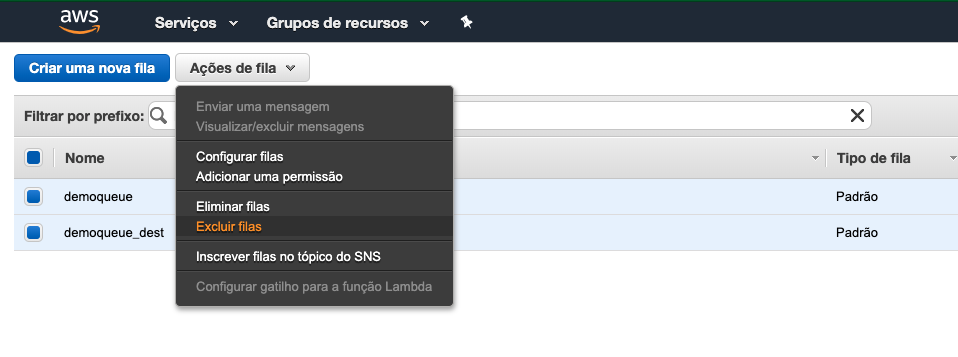
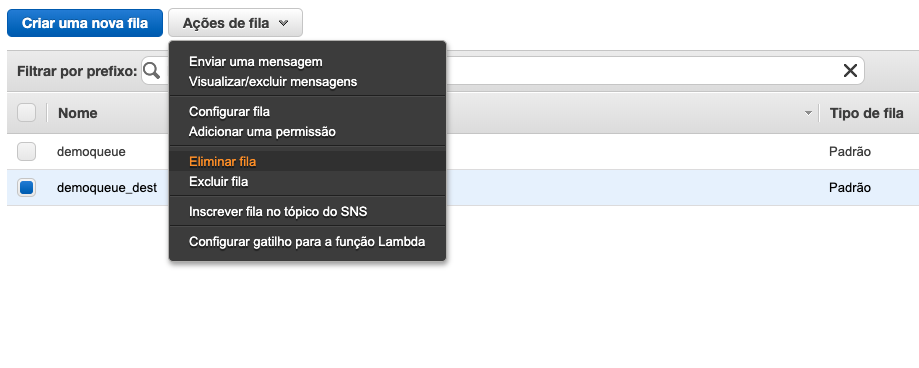
04 SQS 02 DLQ dev

diff --git a/04 - SQS/02 - DLQ/sqsHandler.py b/04 - SQS/02 - DLQ/sqsHandler.py
@@ -1,0 +1,42 @@
+import boto3
+
+class SqsHandler:
+    def __init__(self,queueUrl):
+        self.__sqs = boto3.client('sqs')
+        self.__queueUrl = queueUrl
+
+    def getMessage(self,qtdMsgs):
+        response = self.__sqs.receive_message(
+            QueueUrl=self.__queueUrl,
+            MaxNumberOfMessages=qtdMsgs
+        )
+        return response
+
+    def deleteMessage(self,receiptHandle):
+        response = self.__sqs.delete_message(
+            QueueUrl=self.__queueUrl,
+            ReceiptHandle=receiptHandle
+        )
+        return response
+    
+    def deleteBatch(self,lista):
+        response = self.__sqs.delete_message_batch(
+            QueueUrl=self.__queueUrl,
+            Entries=lista
+        )
+        print(response)
+
+    def sendBatch(self,lista):
+        response = self.__sqs.send_message_batch(
+            QueueUrl=self.__queueUrl,
+            Entries=lista
+        )
+        print(response)
+    
+    def send(self,msg):
+        response = self.__sqs.send_message(
+            QueueUrl=self.__queueUrl,
+            MessageBody=msg
+        )
+        print(response)
+    

diff --git a/04 - SQS/02 - DLQ/put.py b/04 - SQS/02 - DLQ/put.py
@@ -1,0 +1,12 @@
+from sqsHandler import SqsHandler
+
+mensagens = []
+for num in range(3000):
+    mensagens.append({'Id':str(num), 'MessageBody': str(num)})
+
+splitMsg = [mensagens[x:x+10] for x in range(0, len(mensagens), 10)]
+sqs = SqsHandler('<url da sua fila>')
+for lista in splitMsg:    
+    print(type(lista))
+    print(str(lista))
+    sqs.sendBatch(lista)

diff --git a/04 - SQS/02 - DLQ/README.md b/04 - SQS/02 - DLQ/README.md
@@ -1,15 +1,14 @@
 # Aula 04.2 - DLQ Queue
 
-1. Crie uma fila com o mesmo nome de uma fila já criada e coloque o sulfixo '_DLQ'
-2. Selecione a fila que já existia clique em 'Queue Actions' e depois em 'Configure Queue'
+1. No terminal do IDE criado no cloud9 execute o comando `cd ~/environment/aula-serverless-mob/04\ -\ SQS/02\ -\ DLQ/` para entrar na pasta que fara este exercicio.
+2. Na aba do SQS crie uma fila com o mesmo nome de uma fila já criada e coloque o sulfixo '_DLQ'
+3. Selecione a fila Demoqueue clique em 'Ações  fila' e depois em 'Configurar fila'
 ![img/dlq-01.png](img/dlq-01.png)
-3. Preencha as informações como na imagem, e clique me 'Save Changes'
+3. Preencha as informações como na imagem, e clique me 'Salvar alterações'
 ![img/dlq-02.png](img/dlq-02.png)
-4. Crie uma pasta chamada 'sqs' e entre nela
-5. Copie o arquivo 'sqsHandler.py', e o 'put.py' que esta na raiz do módulo para dentro da pasta 'sqs'
-6. Coloque a url da sua fila no lugar descrito no arquivo 'put.py'
-7. execute o comando `python3 put.py`
-8. Copie o arquivo 'consumer.py' que esta na raiz do módulo para dentro da pasta 'sqs' e faça as alterações como na imagem.
+1. Coloque a url da sua fila no lugar descrito no arquivo 'put.py'
+2. execute o comando `python3 put.py`
+3. Copie o arquivo 'consumer.py' que esta na raiz do módulo para dentro da pasta 'sqs' e faça as alterações como na imagem.
 ![img/dlq-03.png](img/dlq-03.png)
 9. execute o comando `python3 consumer.py`
 10. Observe que enquanto roda o script a fila DLQ é populada.

diff --git a/04 - SQS/01 - Standart Queue/README.md b/04 - SQS/01 - Standart Queue/README.md
@@ -30,7 +30,7 @@
 ![img/lambda-03.png](img/lambda-04.png)
 12. Se esperar alguns execuções vai ver que a fila principal vai zerar.
 12. Execute o comando `sls remove` no terminal para remover o que foi criado.
-13. Vá até o painel do sqs, selecione as 2 filas que utilizou no exercicio, clique em 'Ações de fila' e depois em 'Excluir Filas'. Confirme.
+13. Vá até o painel do sqs, selecione as 2 filas que utilizou no exercicio, clique em 'Ações de fila' e depois em 'Eliminar Filas'. Confirme. Essa ação vai tirar todos os items das 2 filas.
 ![img/lambda-05.png](img/lambda-05.png)
 
 
